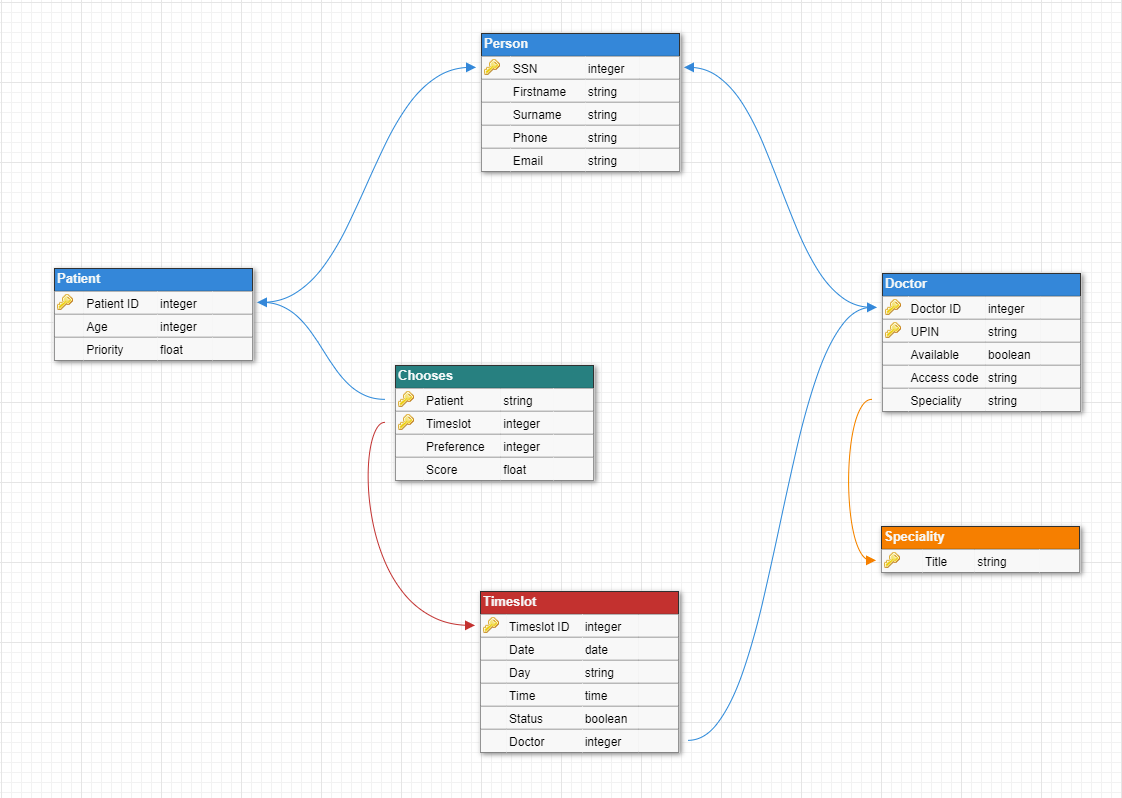
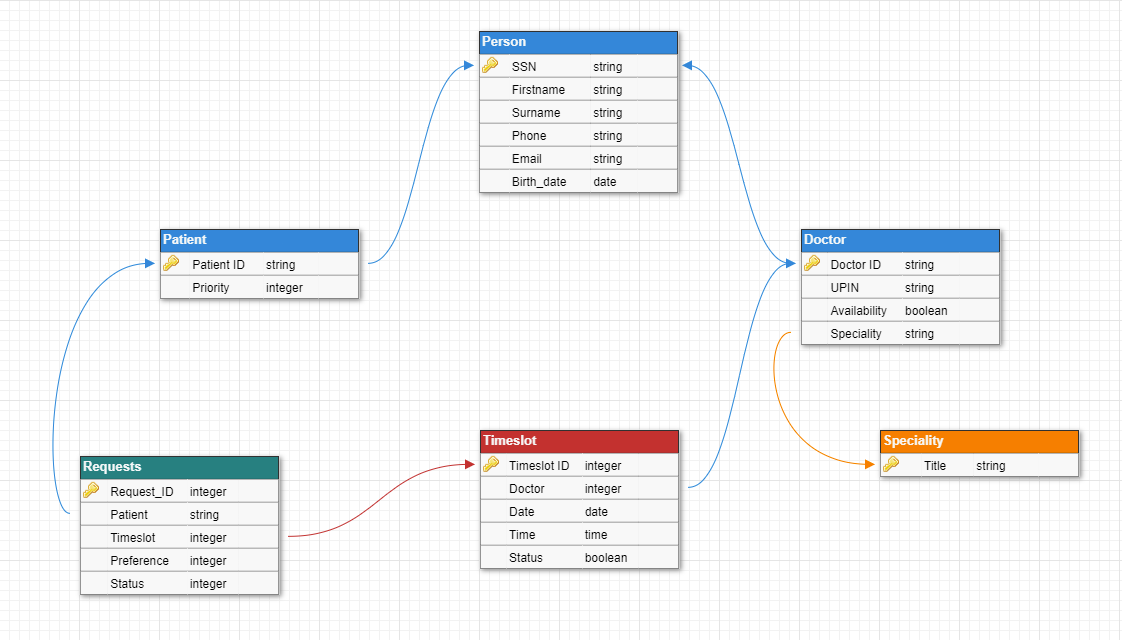
Db revised

diff --git a/data/fabricate_data.py b/data/fabricate_data.py
@@ -19,9 +19,9 @@ class DataFabricator():
         # 8 timeslots per day, per doctor for 5 days a week for 3 months
         self.quantities['Timeslot'] = int(
             self.quantities['Doctor'] * 8 * 5 * 12)
-        self.quantities['Chooses'] = int(
+        self.quantities['Requests'] = int(
             demand * self.quantities['Timeslot'])
-        for i in self.quantities.keys():
+        for i in self.quantities:
             print(i, self.quantities[i])
 
     def write_to_csv(self, entity, entity_diction, list_of_dicts):
@@ -38,19 +38,60 @@ class DataFabricator():
         primaries.append(temp)
         return primaryKey
 
-    def loadForeigns(self, foreign_lists, entity_diction, attribute):
+    def loadNonForeign(self, entity, entity_diction,  attribute):
+        type = entity_diction[attribute][0]
+        if type == 'text':
+            type = 'str'
+        elif type == 'integer':
+            type = 'int'
+        df = pd.read_csv(
+            "data/{}.csv".format(entity), dtype={attribute: type})
+        return list(df[attribute])
+
+    def loadForeign(self, entity_diction, attribute):
+        foreign_type = entity_diction[attribute][0]
         foreign_entity = entity_diction[attribute][2]
         foreign_attribute = entity_diction[attribute][3]
+        if foreign_type == 'text':
+            foreign_type = 'str'
+        elif foreign_type == 'integer':
+            foreign_type = 'int'
         df = pd.read_csv(
-            "data/{}.csv".format(foreign_entity), dtype={foreign_attribute: "string"})
-        foreign_lists[foreign_attribute] = list(df[foreign_attribute])
+            "data/{}.csv".format(foreign_entity), dtype={foreign_attribute: foreign_type})
+        return list(df[foreign_attribute])
 
-    def chooseForeign(self, foreign_lists, entity_diction, attribute, remove=False):
-        foreign_attribute = entity_diction[attribute][3]
-        foreign = random.choice(foreign_lists[foreign_attribute])
+    def chooseForeign(self, foreign_lists, attribute, remove=False):
+        foreign = random.choice(foreign_lists[attribute])
         if remove:
-            foreign_lists[foreign_attribute].remove(foreign)
+            foreign_lists[attribute].remove(foreign)
         return foreign
+
+    def calculateScore(self, request, patient_info):
+        patient = request["Patient"]
+        priority = patient_info[patient]
+        preference = request["Preference"]
+        # the smallest the score the better
+        score = preference / priority
+        return score, patient
+
+    def handleStatus(self, requests, patient_info):
+        timeslot_requests = {}
+        for i in range(len(requests)):
+            request = requests[i]
+            score, patient = self.calculateScore(request, patient_info)
+            if request['Timeslot'] not in timeslot_requests.keys():
+                timeslot_requests[request['Timeslot']] = [
+                    (request['Request_ID'], i, patient, score)]
+            else:
+                timeslot_requests[request['Timeslot']].append(
+                    (request['Request_ID'], i, patient, score))
+        for timeslot in timeslot_requests:
+            timeslot_requests[timeslot] = sorted(
+                timeslot_requests[timeslot], key=lambda item: item[3])
+            priority_patient = timeslot_requests[timeslot].pop()
+            requests[priority_patient[1]]['Status'] = 1
+            for patient in timeslot_requests[timeslot]:
+                requests[patient[1]]['Status'] = 0
 
     def fabricatePerson(self, quantity):
         fake = Faker('el_GR')
@@ -127,14 +168,14 @@ class DataFabricator():
 
                 if len(entity_diction[attribute]) == 4:
                     if i == 0:
-                        self.loadForeigns(
-                            foreign_lists, entity_diction, attribute)
+                        foreign_lists[attribute] = self.loadForeign(
+                            entity_diction, attribute)
                     if primary:
                         foreign = self.chooseForeign(
-                            foreign_lists, entity_diction, attribute, True)
+                            foreign_lists, attribute, True)
                     else:
                         foreign = self.chooseForeign(
-                            foreign_lists, entity_diction, attribute)
+                            foreign_lists, attribute)
                     temp_dict[attribute] = foreign
 
                 elif len(entity_diction[attribute]) < 4:
@@ -164,22 +205,21 @@ class DataFabricator():
 
                 if len(entity_diction[attribute]) == 4:
                     if i == 0:
-                        self.loadForeigns(
-                            foreign_lists, entity_diction, attribute)
+                        foreign_lists[attribute] = self.loadForeign(
+                            entity_diction, attribute)
                         df = pd.read_csv("data/Doctor.csv",
                                          dtype={"Doctor_ID": "string"})
                         doctors = list(df['Doctor_ID'])
                         for d in doctors:
-                            foreign_lists['SSN'].remove(d)
+                            foreign_lists['Patient_ID'].remove(d)
                     foreign = self.chooseForeign(
-                        foreign_lists, entity_diction, attribute, True)
+                        foreign_lists, attribute, True)
                     temp_dict[attribute] = foreign
 
                 elif len(entity_diction[attribute]) < 4:
-                    if type == 'float':
+                    if type == 'integer':
                         if attribute == 'Priority':
-                            temp_dict[attribute] = round(
-                                random.random() * 10.0, 2)
+                            temp_dict[attribute] = random.randint(1, 10)
             list_of_dicts.append(temp_dict)
         self.write_to_csv('Patient', entity_diction, list_of_dicts)
 
@@ -191,8 +231,8 @@ class DataFabricator():
         start_date = date.today()
         final_date = start_date + timedelta(days=90)
         current_date = start_date
-        appointment_times = ['10:00:00', '11:00:00', '12:00:00', '13:00:00',
-                             '14:00:00', '15:00:00', '16:00:00', '17:00:00', '18:00:00']
+        appointment_times = ['09:00:00', '10:00:00', '11:00:00', '12:00:00',
+                             '13:00:00', '14:00:00', '15:00:00', '16:00:00', '17:00:00']
         available_appointments = appointment_times[:]
         doctor_finished = True
         current_appointment = None
@@ -201,7 +241,7 @@ class DataFabricator():
         for i in range(0, quantity):
 
             if len(available_appointments):
-                current_appointment = available_appointments.pop()
+                current_appointment = available_appointments.pop(0)
             else:
                 available_appointments = appointment_times[:]
                 if (current_date + timedelta(days=1)).weekday() not in [5, 6]:
@@ -222,12 +262,11 @@ class DataFabricator():
 
                 if len(entity_diction[attribute]) == 4:
                     if i == 0:
-                        self.loadForeigns(
-                            foreign_lists, entity_diction, attribute)
-
+                        foreign_lists[attribute] = self.loadForeign(
+                            entity_diction, attribute)
                     if doctor_finished:
                         foreign = self.chooseForeign(
-                            foreign_lists, entity_diction, attribute, True)
+                            foreign_lists, attribute, True)
                         doctor_finished = False
 
                     temp_dict[attribute] = foreign
@@ -249,9 +288,13 @@ class DataFabricator():
             list_of_dicts.append(temp_dict)
         self.write_to_csv('Timeslot', entity_diction, list_of_dicts)
 
-    def fabricateChooses(self, quantity):
+    def fabricateRequests(self, quantity):
         primaryKey = 1
-        entity_diction = self.schema['Chooses']
+        entity_diction = self.schema['Requests']
+        patient_dict = self.schema['Patient']
+        priorities = self.loadNonForeign(
+            "Patient", patient_dict, "Priority")
+
         list_of_dicts = []
         primaries = []
         patients = {}
@@ -267,21 +310,19 @@ class DataFabricator():
                 primary = entity_diction[attribute][1]
                 if len(entity_diction[attribute]) == 4:
                     if i == 0:
-                        self.loadForeigns(
-                            foreign_lists, entity_diction, attribute)
+                        foreign_lists[attribute] = self.loadForeign(
+                            entity_diction, attribute)
                         if attribute == "Patient":
-                            df = pd.read_csv(
-                                "data/Patient.csv", dtype={"Patient_ID": "string"})
-                            for p in list(df["Patient_ID"]):
+                            for p in foreign_lists["Patient"]:
                                 patients[p] = []
                     foreign = self.chooseForeign(
-                        foreign_lists, entity_diction, attribute)
+                        foreign_lists, attribute)
                     if entity_diction[attribute][3] == 'Patient_ID':
                         current_patient = foreign
                     elif entity_diction[attribute][3] == 'Timeslot_ID':
                         while foreign in patients[current_patient]:
                             foreign = self.chooseForeign(
-                                foreign_lists, entity_diction, attribute)
+                                foreign_lists, attribute)
                         patients[current_patient].append(foreign)
                     temp_dict[attribute] = foreign
 
@@ -295,8 +336,12 @@ class DataFabricator():
                             if attribute == 'Preference':
                                 temp_dict[attribute] = len(
                                     patients[current_patient])
+
             list_of_dicts.append(temp_dict)
-        self.write_to_csv("Chooses", entity_diction, list_of_dicts)
+        patient_info = {patient: priority for patient, priority in zip(
+            foreign_lists["Patient"], priorities)}
+        self.handleStatus(list_of_dicts, patient_info)
+        self.write_to_csv("Requests", entity_diction, list_of_dicts)
 
     def fabricate(self, entity):
         try:
@@ -311,8 +356,8 @@ class DataFabricator():
                     self.fabricatePatient(self.quantities['Patient'])
                 case 'Timeslot':
                     self.fabricateTimeslot(self.quantities['Timeslot'])
-                case 'Chooses':
-                    self.fabricateChooses(self.quantities['Chooses'])
+                case 'Requests':
+                    self.fabricateRequests(self.quantities['Requests'])
 
             print(f'Data fabrication for table {entity} finished')
 

diff --git a/data/db_creator.py b/data/db_creator.py
@@ -13,12 +13,12 @@ def main():
         'Doctor': {"Doctor_ID": ['text', True, 'Person', 'SSN'], "UPIN": ['text', False, True],
                    "Availability": ['boolean', False], "Specialty": ['text', False, 'Specialty', 'Title']},
 
-        'Patient': {"Patient_ID": ['text', True, 'Person', 'SSN'], "Priority": ['float', False]},
+        'Patient': {"Patient_ID": ['text', True, 'Person', 'SSN'], "Priority": ['integer', False]},
 
-        'Timeslot': {"Timeslot_ID": ['integer', True], "Date": ['date', False], "Time": ['time', False], "Status": ['boolean', False], "Doctor": ['text', False, 'Doctor', 'Doctor_ID']},
+        'Timeslot': {"Timeslot_ID": ['integer', True], "Date": ['date', False], "Time": ['time', False], "Doctor": ['text', False, 'Doctor', 'Doctor_ID']},
 
-        'Chooses': {"Choice_ID": ['integer', True], "Patient": ['text', False, 'Patient', 'Patient_ID'], "Timeslot": ['integer', False, 'Timeslot', 'Timeslot_ID'],
-                    "Preference": ['integer', False]}
+        'Requests': {"Request_ID": ['integer', True], "Patient": ['text', False, 'Patient', 'Patient_ID'], "Timeslot": ['integer', False, 'Timeslot', 'Timeslot_ID'],
+                     "Preference": ['integer', False], "Status": ['integer', False]}
     }
 
     d = DataModel('kanon2000', 'nhs', 'kanon2000', schema)
@@ -26,8 +26,8 @@ def main():
     d.createTables()
     inp = input(" Do you want to fabricate new test data?\n y/n:")
     if inp == 'y':
-        fab = DataFabricator(schema, 100000, 500000, 100, 150, 10, 20, 1.5)
-        for e in list(schema.keys()):
+        fab = DataFabricator(schema, 50000, 100000, 50, 100, 10, 20, 2.5)
+        for e in schema.keys():
             fab.fabricate(e)
         if d.isEmpty():
             d.loadTestData()

diff --git a/data/db.py b/data/db.py
@@ -76,7 +76,6 @@ class DataModel():
         print("Table creation finished")
 
     def loadTestData(self):
-
         for table in self.schema.keys():
             try:
                 csvFile = '\\' + table + '.csv'
@@ -110,7 +109,11 @@ class DataModel():
                     if values == None:
                         self.cur.execute(subquery)
                     else:
-                        self.cur.execute(subquery, values)
+                        try:
+                            self.cur.execute(subquery, values)
+                        except psycopg2.Error as error:
+                            print(
+                                f"Failed to execute SQL querie \n {query}", error)
                     sql_time = time.perf_counter() - t1
                     if show:
                         print(
@@ -130,7 +133,7 @@ class DataModel():
                     return result
 
         except psycopg2.Error as error:
-            print(f"Failed to execute SQL querie \n {query}", error)
+            # print(f"Failed to execute SQL querie \n {query}", error)
             return False
 
     def values(self, val, ins=0, table=None):
@@ -195,6 +198,7 @@ class DataModel():
             return False
 
     def insertRow(self, table, val):
+
         try:
             values = self.values(val, ins=1, table=table)
             strQuery = f"""INSERT INTO {table}({",".join(val.keys())}) VALUES(%s{(len(val)-1) * ", %s"}); \n"""
